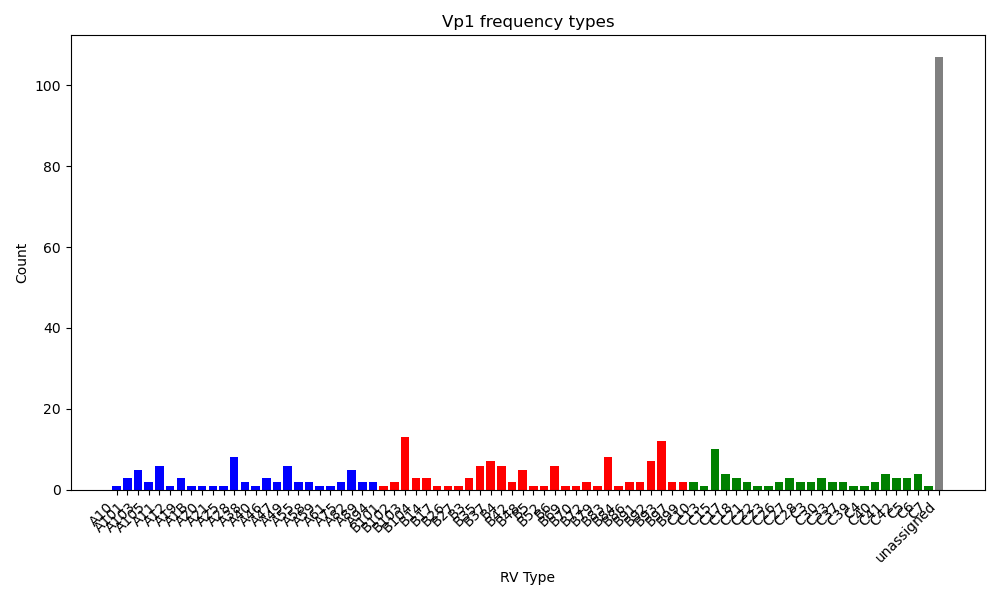
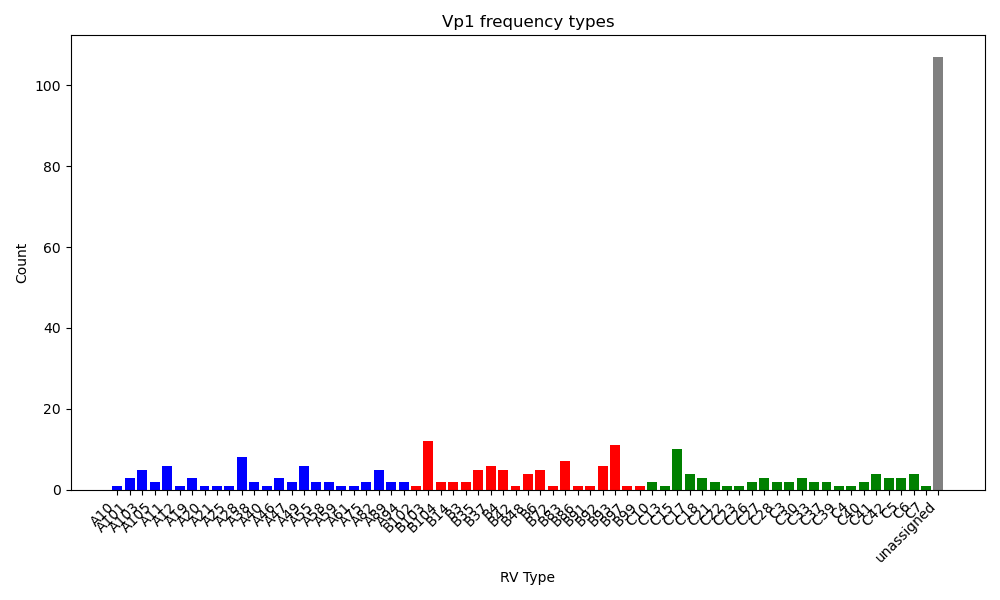
corrected assign type function

Changed region(s): [[0.093, 0.72, 0.93, 0.9]]

diff --git a/scripts/assign_types.py b/scripts/assign_types.py
@@ -1,6 +1,6 @@
 import os
 import pandas as pd
-from genetic_distances import calc_p_distance, calc_jukes_cantor_distance, calc_kimura_2p_distance, calc_tamura_3p_distance
+import numpy as np
 from pairwise_distances import pairwise_distances
 from getprototypeseqs import user_input
 
@@ -22,65 +22,49 @@ def assign_types(fasta_data, model='p-distance', gap_deletion=True, threshold=0.
     names_to_keep = prototypes_df['Accession'].tolist()
     
     
-    # Calculate pairwise distances
-    distance_matrix = pairwise_distances(fasta_data, model=model, gap_deletion=gap_deletion)
-
-    # Get accession names from fasta data headers
-    headers = fasta_data["headers"]
+    # Run pairwiseDistances to calculate distances
+    distances = pairwise_distances(fasta_data, model=model, gap_deletion=gap_deletion)
     
-    # Convert to pandas DataFrame for easier manipulation
-    distance_df = pd.DataFrame(distance_matrix, index=headers, columns=headers)
-
     # Filter columns based on the prototypes
-    columns = distance_df.columns.to_list()
-    trans_columns = [column.replace('RVB', 'B') for column in columns]
-    trans_col_to_drop = [column for column in trans_columns if column not in names_to_keep]
-    col_to_drop = [column.replace('B', 'RVB') for column in trans_col_to_drop]
-    distance_df = distance_df.drop(columns=col_to_drop)
-    
+    distances = distances.loc[:, distances.columns.isin(names_to_keep)]
     
     # Filter rows to remove the same names as in the list
-    rows = distance_df.index.to_list()
-    trans_rows = [row.replace('RVB', 'B') for row in rows]
-    trans_row_to_drop = [row for row in trans_rows if row in names_to_keep]
-    row_to_drop = [row.replace('B', 'RVB') for row in trans_row_to_drop]
-    distance_df = distance_df.drop(row_to_drop, axis=0, errors='ignore')
-
+    distances = distances.loc[~distances.index.isin(names_to_keep), :]
     
     # Initialize lists to store output data
-    query_list = []
-    assigned_type_list = []
-    distance_list = []
-    ref_seq_list = []
+    query_vec = []
+    assigned_type_vec = []
+    distance_vec = []
+    ref_seq_vec = []
     
     # Iterate over each row (query) in the distances DataFrame
-    for query in distance_df.index:
-        valid_cols = distance_df.loc[query] < threshold
+    for i, row in distances.iterrows():
+        query_header = i
+        valid_cols = row[row < threshold].index
         
-        if valid_cols.sum() == 0:
+        if len(valid_cols) == 0:
             # If no valid columns found, mark as "unassigned"
-            assigned_type_list.append('unassigned')
-            distance_list.append(None)
-
+            assigned_type_vec.append("unassigned")
+            distance_vec.append(np.nan)
             # Find the column with the minimum distance
-            min_dist_col = distance_df.loc[query].idxmin()
-            ref_seq_list.append(min_dist_col)
+            min_dist_col = row.idxmin()
+            ref_seq_vec.append(min_dist_col)
         else:
             # Choose the one with the minimum distance
-            min_distance_col = distance_df.loc[query, valid_cols].idxmin()
+            min_distance_col = row[valid_cols].idxmin()
             assigned_type = min_distance_col
-            assigned_type_list.append(assigned_type.split('_')[-1].replace('RV', ''))
-            distance_list.append(distance_df.loc[query, min_distance_col])
-            ref_seq_list.append(assigned_type)
+            assigned_type_vec.append(assigned_type.replace("RV", "").split("_")[-1])
+            distance_vec.append(row[min_distance_col])
+            ref_seq_vec.append(assigned_type)
         
-        query_list.append(query)
+        query_vec.append(query_header)
     
-    # Create output DataFrame
+    # Create a DataFrame from the results
     output_df = pd.DataFrame({
-        'query': query_list,
-        'assignedType': assigned_type_list,
-        'distance': distance_list,
-        'reference': ref_seq_list
+        'query': query_vec,
+        'assignedType': assigned_type_vec,
+        'distance': distance_vec,
+        'reference': ref_seq_vec
     })
     
     return output_df
